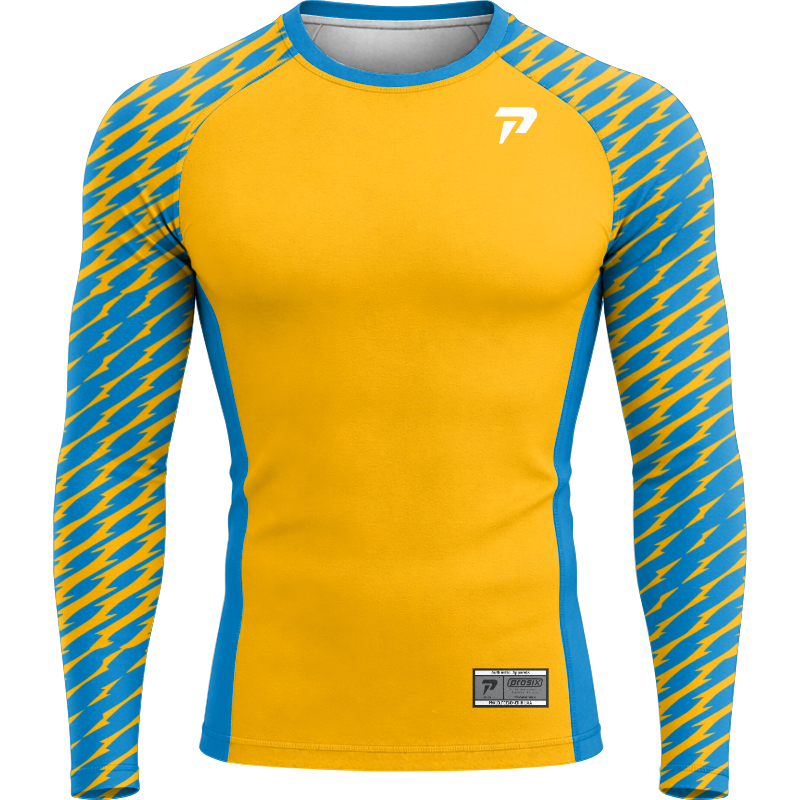
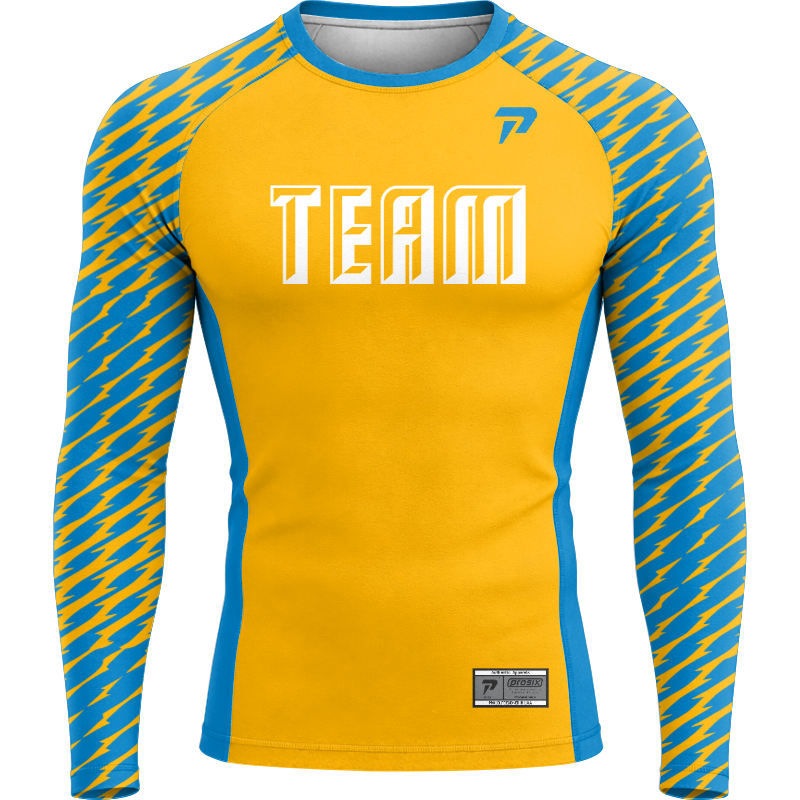
update

Changed region(s): [[0.3125, 0.2188, 0.6562, 0.375], [0.625, 0.125, 0.6875, 0.1875]]

diff --git a/public/js/customizer-pattern.js b/public/js/customizer-pattern.js
@@ -174,6 +174,44 @@
 
     window.clearPatternForSelectedPart = function () {
 
+
+
+
+// TEXT PATTERN REMOVE SUPPORT
+if (window.currentApplicationLayer && window.selectingPatternForText) {
+
+    const layer = findLayerById(window.currentApplicationLayer);
+    if (!layer) return;
+
+    const textEl = document.getElementById(layer.id);
+    if (!textEl) return;
+
+    const mainSvg = window.getMainSvg();
+
+    if (layer.patternId) {
+        const pattern = mainSvg.querySelector(`#${layer.patternId}`);
+        if (pattern) pattern.remove();
+    }
+
+    if (layer.baseColor) {
+        textEl.setAttribute('fill', layer.baseColor);
+    } else {
+        textEl.setAttribute('fill', '#ffffff');
+    }
+
+    delete layer.hasPattern;
+    delete layer.patternId;
+    delete layer.patternSvg;
+
+    window.selectingPatternForText = false;
+
+    if (window.saveCustomizations)
+        window.saveCustomizations();
+
+    return;
+}
+
+
         if (!window.selectedSvgElement) return;
 
         const view = window.currentView;
@@ -240,7 +278,14 @@
     // =================== APPLY PATTERN (ULTRA SAFE VERSION) ===================
 
     window.applyUploadedPattern = function () {
+if (window.selectingPatternForText && window.currentApplicationLayer) {
 
+    applyPatternToText(window.uploadedSvgContent);
+
+    window.selectingPatternForText = false;
+
+    return;
+}
         if (!window.selectedSvgElement) {
             alert("Please select a part first!");
             return;
@@ -993,6 +1038,45 @@ background-repeat:no-repeat;
     };
 
     window.clearMascotForSelectedPart = function () {
+
+
+if (window.currentApplicationLayer) {
+
+    const layer = findLayerById(window.currentApplicationLayer);
+
+    if (layer && layer.hasMascot) {
+
+        const mainSvg = window.getMainSvg();
+
+        const textEl = document.getElementById(layer.id);
+
+        if (textEl) {
+
+            textEl.removeAttribute('fill');
+
+        }
+
+        if (layer.mascotId) {
+
+            const pattern = mainSvg.querySelector(`#${layer.mascotId}`);
+
+            if (pattern) pattern.remove();
+
+        }
+
+        delete layer.hasMascot;
+        delete layer.mascotSvg;
+        delete layer.mascotId;
+
+        if (window.saveCustomizations)
+            window.saveCustomizations();
+
+        return;
+    }
+}
+
+
+
         if (!window.selectedSvgElement) return;
 
         const view = window.currentView;
@@ -1026,6 +1110,20 @@ background-repeat:no-repeat;
 
     // ⭐ YEH FUNCTION MASCOT KO REPEAT KAREGA ⭐
     window.selectMascotTemplate = function (img, svg) {
+
+
+if (window.selectingMascotForText && window.currentApplicationLayer) {
+
+    applyMascotToText(decodeURIComponent(svg));
+
+    window.selectingMascotForText = false;
+
+    closeMascotTemplateModal();
+
+    return;
+}
+
+
         if (!window.selectedSvgElement) {
             closeMascotTemplateModal();
             alert("Pehle jersey ka koi part select karo, phir dobara SELECT MASCOT click karo!");

diff --git a/resources/js/app.js b/resources/js/app.js
@@ -54,38 +54,38 @@ app.component('profile-tab', ProfileTab);
 //  GLOBAL INSPECT / DEVTOOLS PROTECTION
 // =====================================================
 
-document.addEventListener('contextmenu', e => e.preventDefault())
+// document.addEventListener('contextmenu', e => e.preventDefault())
 
-document.addEventListener('keydown', e => {
-  if (
-    e.key === 'F12' ||
-    (e.ctrlKey && e.shiftKey && ['I','J','C'].includes(e.key.toUpperCase())) ||
-    (e.ctrlKey && e.key.toUpperCase() === 'U') ||
-    (e.metaKey && e.altKey && ['I','J','C'].includes(e.key.toUpperCase()))
-  ) {
-    e.preventDefault()
-    e.stopPropagation()
-    return false
-  }
-})
+// document.addEventListener('keydown', e => {
+//   if (
+//     e.key === 'F12' ||
+//     (e.ctrlKey && e.shiftKey && ['I','J','C'].includes(e.key.toUpperCase())) ||
+//     (e.ctrlKey && e.key.toUpperCase() === 'U') ||
+//     (e.metaKey && e.altKey && ['I','J','C'].includes(e.key.toUpperCase()))
+//   ) {
+//     e.preventDefault()
+//     e.stopPropagation()
+//     return false
+//   }
+// })
 
-const devToolsCheck = () => {
-  // Real mobile device hai toh skip karo
-  const isRealMobile = /Android|iPhone|iPad|iPod|BlackBerry|IEMobile|Opera Mini/i.test(navigator.userAgent)
-  if (isRealMobile) return
+// const devToolsCheck = () => {
+//   // Real mobile device hai toh skip karo
+//   const isRealMobile = /Android|iPhone|iPad|iPod|BlackBerry|IEMobile|Opera Mini/i.test(navigator.userAgent)
+//   if (isRealMobile) return
 
-  const threshold = 160
-  const widthDiff = window.outerWidth - window.innerWidth
-  const heightDiff = window.outerHeight - window.innerHeight
+//   const threshold = 160
+//   const widthDiff = window.outerWidth - window.innerWidth
+//   const heightDiff = window.outerHeight - window.innerHeight
 
-  if (widthDiff > threshold || heightDiff > threshold) {
-    document.body.innerHTML = '<h1 style="text-align:center;margin-top:20%;font-family:sans-serif;color:#000;">Access Denied</h1>'
-    clearInterval(checkInterval)
-  }
-}
+//   if (widthDiff > threshold || heightDiff > threshold) {
+//     document.body.innerHTML = '<h1 style="text-align:center;margin-top:20%;font-family:sans-serif;color:#000;">Access Denied</h1>'
+//     clearInterval(checkInterval)
+//   }
+// }
 
-window.addEventListener('resize', devToolsCheck)
-const checkInterval = setInterval(devToolsCheck, 1000)
+// window.addEventListener('resize', devToolsCheck)
+// const checkInterval = setInterval(devToolsCheck, 1000)
 
 // Mount app
 app.mount('#app');

diff --git a/public/js/customizer-core.js b/public/js/customizer-core.js
@@ -569,11 +569,11 @@ if (window.USER_DESIGN) {
         text.classList.add('modal-preview-text');
         text.setAttribute('x', centerX);
         text.setAttribute('y', centerY);
-        text.setAttribute('font-size', '2000');  // 🔥 LARGER PREVIEW SIZE
+        text.setAttribute('font-size', '2000');  //  LARGER PREVIEW SIZE
         text.style.fontFamily = layer?.fontFamily || 'Arial Black';
         text.setAttribute('fill', textColor);
         text.setAttribute('stroke', strokeColor);
-        text.setAttribute('stroke-width', '6');  // 🔥 THICKER STROKE
+        text.setAttribute('stroke-width', '6');  //  THICKER STROKE
         text.setAttribute('text-anchor', 'middle');
         text.setAttribute('dominant-baseline', 'middle');
         text.setAttribute('paint-order', 'stroke fill');
@@ -2448,54 +2448,6 @@ window.isDraggingKnob = false;
 
     /* ================= MODEL ================= */
 
-    // async function loadModel() {
-
-    //     try {
-    //         const response = await fetch(API_URL);
-    //         const data = await response.json();
-    //         currentModel = data;
-    //         if (data.pattern_changes) {
-    //             patternsApplied = data.pattern_changes;
-    //         }
-
-
-    //         if (data.color_changes) {
-    //             colorChanges = data.color_changes;
-    //         }
-    //         if (data.mascot_changes) {
-    //             mascotsApplied = data.mascot_changes;   // 🔥 REQUIRED
-    //         }
-
-
-    //         //             if (data.applications) {
-    //         //     window.applicationsApplied = data.applications;
-    //         // }
-    //         if (data.applications) {
-    //             Object.assign(window.applicationsApplied, data.applications);
-    //         }
-
-
-
-
-
-    //         modelViews.front = data.front_view || {};
-    //         modelViews.back = data.back_view || {};
-    //         modelViews.left = data.left_view || {};
-    //         modelViews.right = data.right_view || {};
-
-    //         displayView('front');
-
-    //         setTimeout(() => {
-    //             if (window.extractDefaultColors) {
-    //                 extractDefaultColors();
-    //             }
-    //         }, 500);
-    //     } catch (e) {
-    //         console.error('Error loading model:', e);
-    //         document.getElementById('modelDisplay').innerHTML =
-    //             '<div style="color:#ff0000;padding:40px;">Error loading model</div>';
-    //     }
-    // }
 
     async function loadModel() {
         try {

diff --git a/public/js/customizer-application.js b/public/js/customizer-application.js
@@ -560,6 +560,16 @@
     // ============================================================
 
     window.applyDirectMascotToLayer = function (svgContent, forcedLayerId, fromModal) {
+
+
+        if (window.selectingMascotForText && window.currentApplicationLayer) {
+
+        applyMascotToText(svgContent);
+
+        window.selectingMascotForText = false;
+
+        return;
+    }
         const layerId = forcedLayerId || window.currentApplicationLayer;
         if (!layerId) return;
         const layer = findLayerById(layerId);

diff --git a/resources/views/admin/models/show.blade.php b/resources/views/admin/models/show.blade.php
@@ -25,7 +25,6 @@ window.API_URL = window.isUserMode
 </head>
 
 <body>
-
     @foreach (\App\Models\Font::all() as $font)
         @if ($font->file)
             <style>